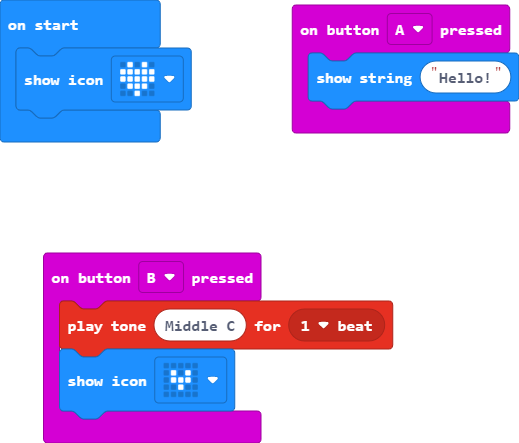
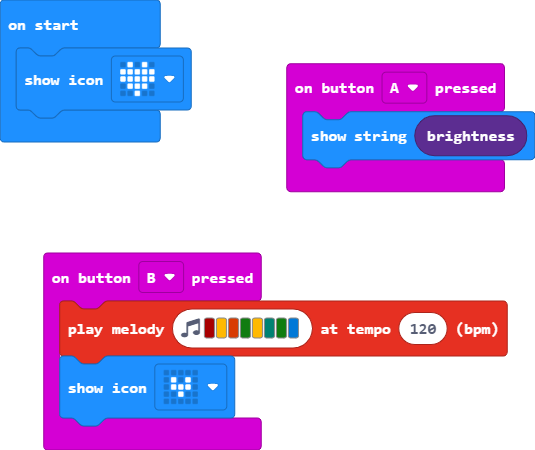
Update main.blocks, main.ts

diff --git a/main.ts b/main.ts
@@ -1,8 +1,8 @@
 input.onButtonPressed(Button.A, function () {
-    basic.showString("Hello!")
+    basic.showString("" + (led.brightness()))
 })
 input.onButtonPressed(Button.B, function () {
-    music.playTone(262, music.beat(BeatFraction.Whole))
+    music.playMelody("C5 A B G A F G E ", 120)
     basic.showIcon(IconNames.SmallHeart)
 })
 basic.showIcon(IconNames.Heart)
